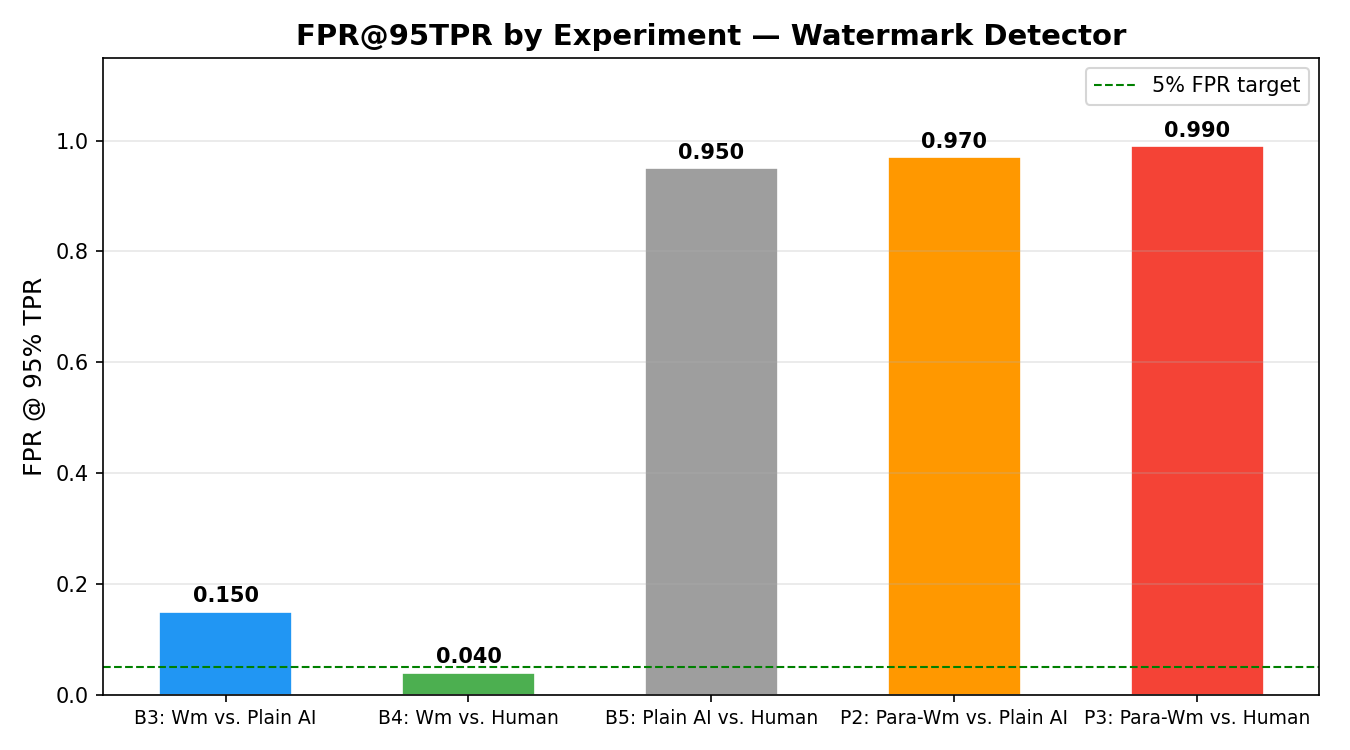
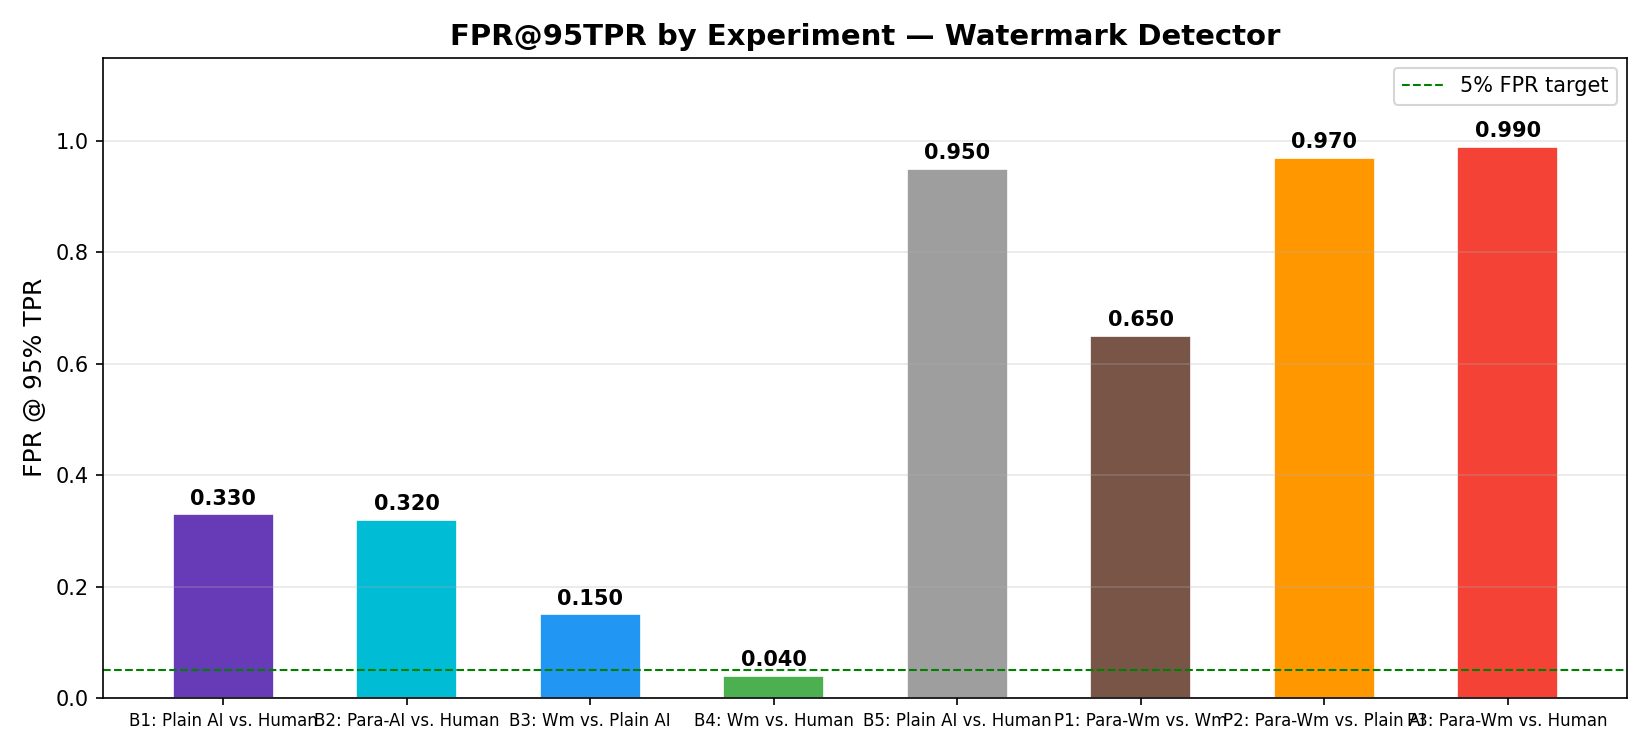
Add final results

diff --git a/generate_plots.py b/generate_plots.py
@@ -16,32 +16,45 @@ plots_dir = "plots"
 
 # Human-readable labels for each experiment file
 EXPERIMENT_LABELS = {
-    "baseline_3": "Baseline 3\nWatermarked vs. Plain AI",
-    "baseline_4": "Baseline 4\nWatermarked vs. Human",
-    "baseline_5": "Baseline 5\nPlain AI vs. Human",
+    "baseline_1":     "Baseline 1\nPlain AI vs. Human (AI Detector)",
+    "baseline_2":     "Baseline 2\nParaphrased AI vs. Human (AI Detector)",
+    "baseline_3":     "Baseline 3\nWatermarked vs. Plain AI",
+    "baseline_4":     "Baseline 4\nWatermarked vs. Human",
+    "baseline_5":     "Baseline 5\nPlain AI vs. Human",
+    "paraphrasing_1": "Paraphrasing 1\nParaphrased Watermarked vs. Watermarked",
     "paraphrasing_2": "Paraphrasing 2\nParaphrased Watermarked vs. Plain AI",
     "paraphrasing_3": "Paraphrasing 3\nParaphrased Watermarked vs. Human",
 }
 
 SHORT_LABELS = {
+    "baseline_1":     "B1: Plain AI vs. Human",
+    "baseline_2":     "B2: Para-AI vs. Human",
     "baseline_3":     "B3: Wm vs. Plain AI",
     "baseline_4":     "B4: Wm vs. Human",
     "baseline_5":     "B5: Plain AI vs. Human",
+    "paraphrasing_1": "P1: Para-Wm vs. Wm",
     "paraphrasing_2": "P2: Para-Wm vs. Plain AI",
     "paraphrasing_3": "P3: Para-Wm vs. Human",
 }
 
 # Colour per experiment — consistent across all plots
 COLORS = {
+    "baseline_1":     "#673AB7",
+    "baseline_2":     "#00BCD4",
     "baseline_3":     "#2196F3",
     "baseline_4":     "#4CAF50",
     "baseline_5":     "#9E9E9E",
+    "paraphrasing_1": "#795548",
     "paraphrasing_2": "#FF9800",
     "paraphrasing_3": "#F44336",
 }
 
 # Display order
-ORDER = ["baseline_3", "baseline_4", "baseline_5", "paraphrasing_2", "paraphrasing_3"]
+ORDER = [
+    "baseline_1", "baseline_2", "baseline_3",
+    "baseline_4", "baseline_5",
+    "paraphrasing_1", "paraphrasing_2", "paraphrasing_3",
+]
 
 
 def load_results(results_dir):
@@ -100,7 +113,7 @@ def plot_auroc_bar(data, plots_dir):
         aurocs.append(auroc)
 
     x = np.arange(len(keys))
-    fig, ax = plt.subplots(figsize=(9, 5))
+    fig, ax = plt.subplots(figsize=(11, 5))
     bars = ax.bar(x, aurocs, color=[COLORS[k] for k in keys],
                   width=0.55, edgecolor="white", linewidth=0.8)
 
@@ -110,7 +123,7 @@ def plot_auroc_bar(data, plots_dir):
 
     ax.axhline(0.5, color="black", linestyle="--", linewidth=1, label="Random baseline")
     ax.set_xticks(x)
-    ax.set_xticklabels([SHORT_LABELS[k] for k in keys], fontsize=9)
+    ax.set_xticklabels([SHORT_LABELS[k] for k in keys], fontsize=8)
     ax.set_ylabel("AUROC", fontsize=12)
     ax.set_ylim(0, 1.12)
     ax.set_title("AUROC by Experiment — Watermark Detector", fontsize=14, fontweight="bold")
@@ -127,7 +140,7 @@ def plot_auroc_bar(data, plots_dir):
 def plot_score_distributions(data, plots_dir):
     keys = [k for k in ORDER if k in data]
     n = len(keys)
-    ncols = 3
+    ncols = 4
     nrows = (n + ncols - 1) // ncols
 
     fig, axes = plt.subplots(nrows, ncols, figsize=(5 * ncols, 4 * nrows))
@@ -153,8 +166,8 @@ def plot_score_distributions(data, plots_dir):
         ax.legend(fontsize=8)
         ax.grid(True, alpha=0.3)
 
-        for j in range(i + 1, len(axes)):
-            axes[j].set_visible(False)
+    for j in range(len(keys), len(axes)):
+        axes[j].set_visible(False)
 
     fig.suptitle("Score Distributions — Watermark Detector", fontsize=14, fontweight="bold", y=1.01)
     fig.tight_layout()
@@ -173,7 +186,7 @@ def plot_fpr_bar(data, plots_dir):
         fprs.append(fpr_at_95)
 
     x = np.arange(len(keys))
-    fig, ax = plt.subplots(figsize=(9, 5))
+    fig, ax = plt.subplots(figsize=(11, 5))
     bars = ax.bar(x, fprs, color=[COLORS[k] for k in keys],
                   width=0.55, edgecolor="white", linewidth=0.8)
 
@@ -183,7 +196,7 @@ def plot_fpr_bar(data, plots_dir):
 
     ax.axhline(0.05, color="green", linestyle="--", linewidth=1, label="5% FPR target")
     ax.set_xticks(x)
-    ax.set_xticklabels([SHORT_LABELS[k] for k in keys], fontsize=9)
+    ax.set_xticklabels([SHORT_LABELS[k] for k in keys], fontsize=8)
     ax.set_ylabel("FPR @ 95% TPR", fontsize=12)
     ax.set_ylim(0, 1.15)
     ax.set_title("FPR@95TPR by Experiment — Watermark Detector", fontsize=14, fontweight="bold")
